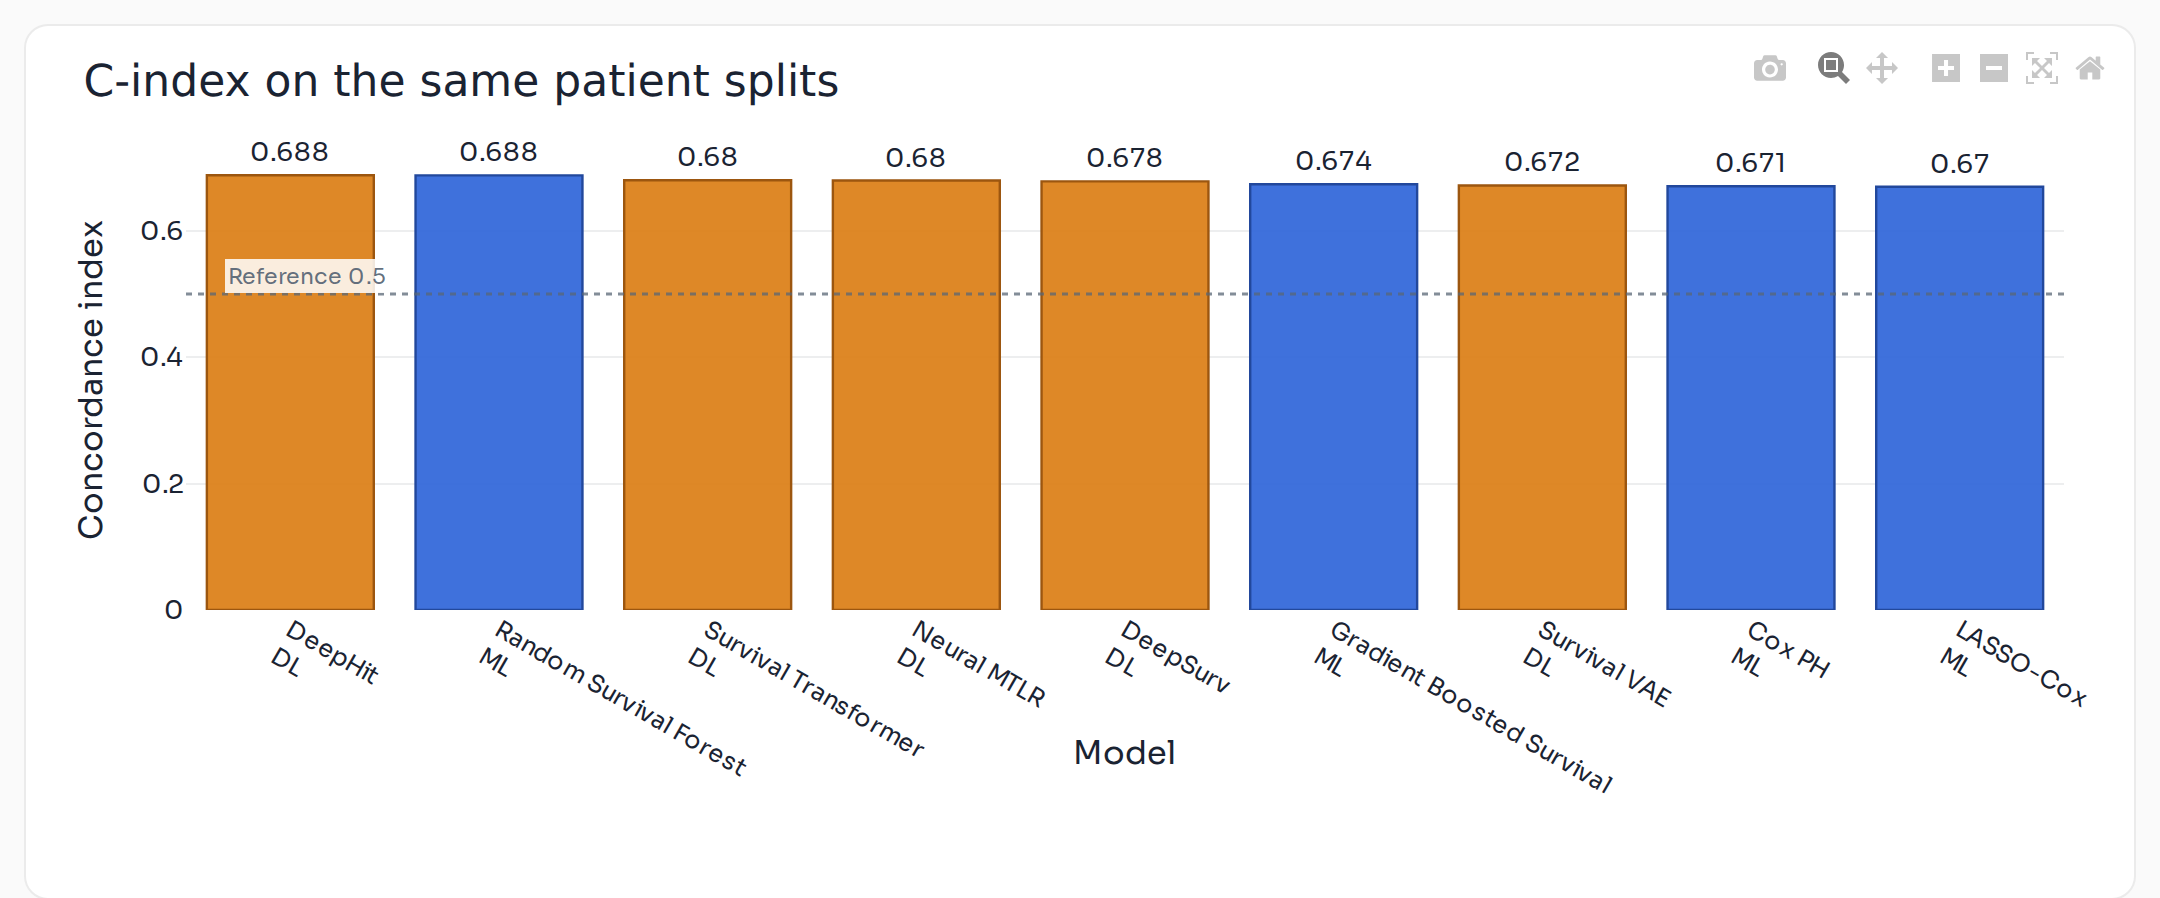
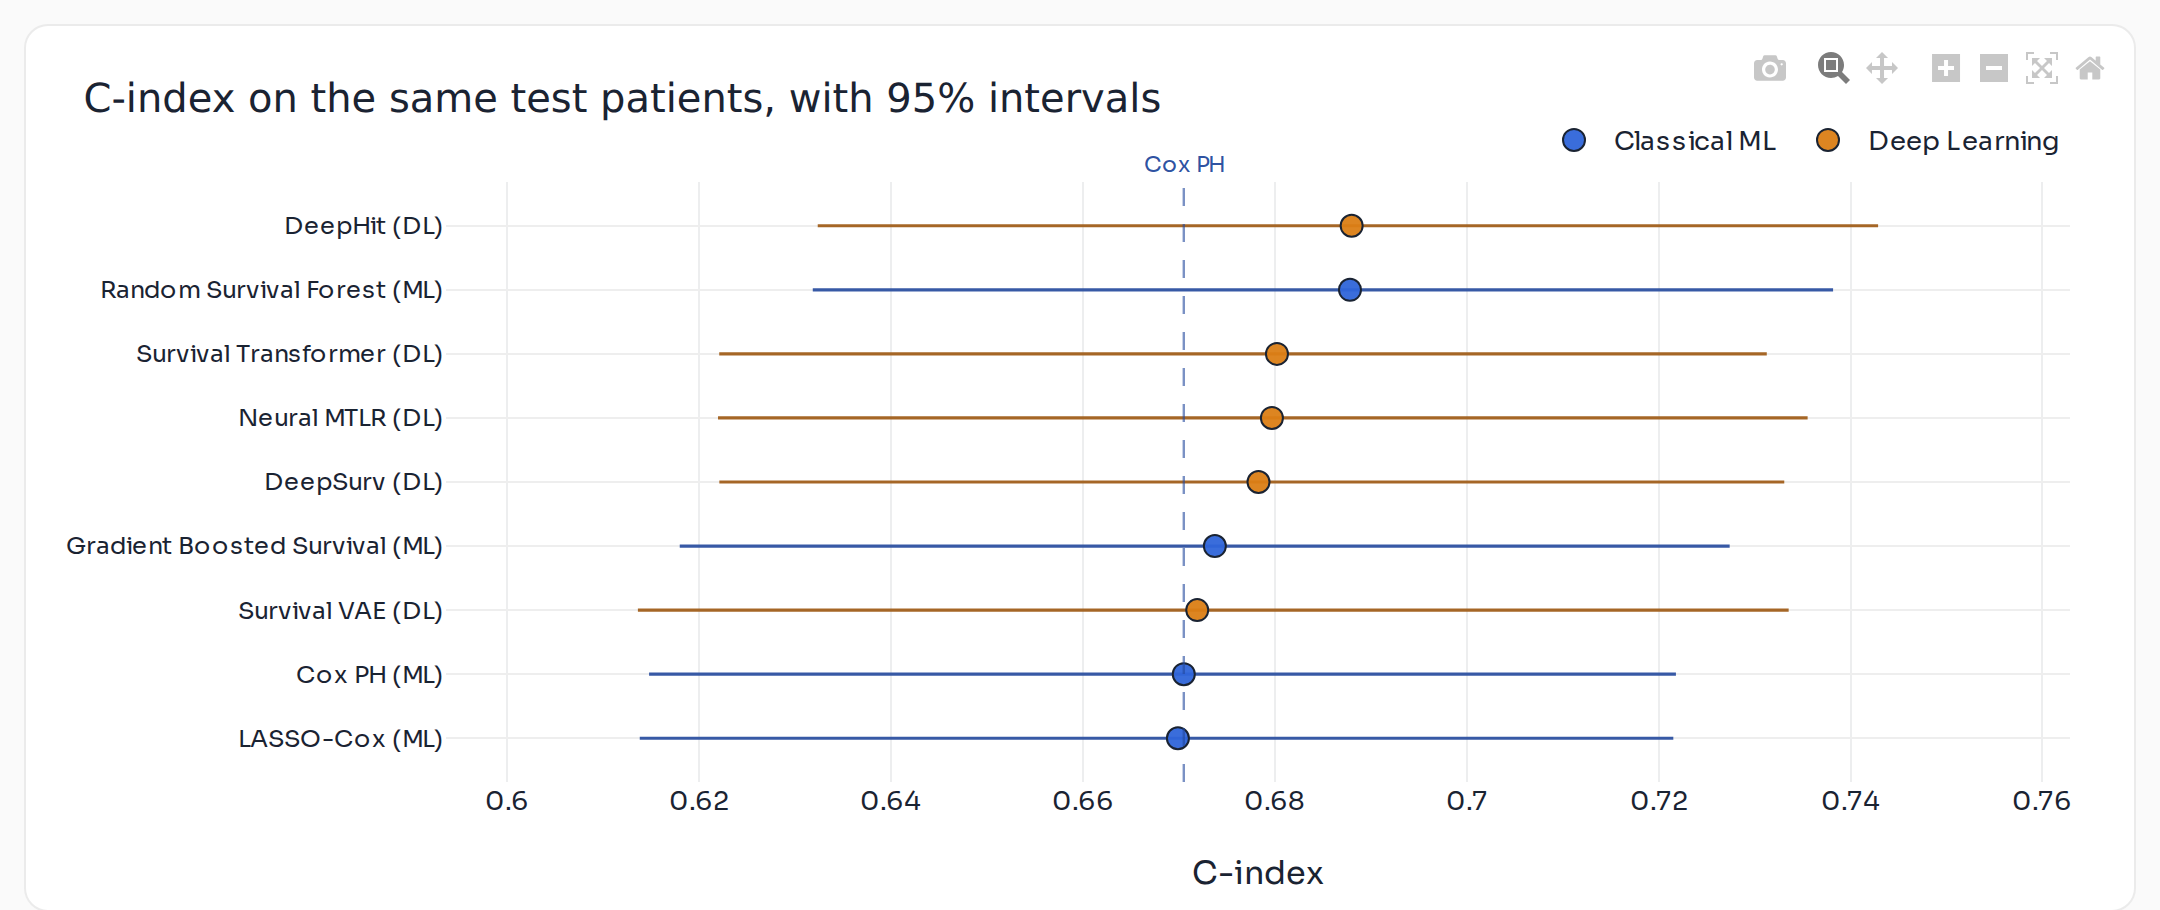
Show the chance line only near the intervals and refresh the comparison screenshot

diff --git a/src/survival_toolkit/static/app_benchmark.js b/src/survival_toolkit/static/app_benchmark.js
@@ -566,15 +566,17 @@
       }).filter((trace) => trace.x.length);
       const lows = ordered.map((row) => intervalByModel.get(String(row.model))?.c_index_ci?.[0] ?? valueOf(row));
       const highs = ordered.map((row) => intervalByModel.get(String(row.model))?.c_index_ci?.[1] ?? valueOf(row));
-      const low = Math.min(...lows, 0.5);
+      // The chance line (0.5) joins the axis only when an interval comes near it.
+      const showChance = Math.min(...lows) < 0.58;
+      const low = showChance ? Math.min(...lows, 0.5) : Math.min(...lows);
       const high = Math.max(...highs);
       const reference = intervalByModel.get("Cox PH");
-      const shapes = [
-        { type: "line", yref: "paper", y0: 0, y1: 1, xref: "x", x0: 0.5, x1: 0.5, line: { color: "rgba(90, 103, 118, 0.7)", width: 1.2, dash: "dot" } },
-      ];
-      const annotations = [
-        { xref: "x", x: 0.5, yref: "paper", y: 1, yanchor: "bottom", text: "0.5", showarrow: false, font: { size: 11, color: "rgba(90, 103, 118, 0.95)" } },
-      ];
+      const shapes = showChance
+        ? [{ type: "line", yref: "paper", y0: 0, y1: 1, xref: "x", x0: 0.5, x1: 0.5, line: { color: "rgba(90, 103, 118, 0.7)", width: 1.2, dash: "dot" } }]
+        : [];
+      const annotations = showChance
+        ? [{ xref: "x", x: 0.5, yref: "paper", y: 1, yanchor: "bottom", text: "0.5", showarrow: false, font: { size: 11, color: "rgba(90, 103, 118, 0.95)" } }]
+        : [];
       if (reference?.c_index != null) {
         shapes.push({ type: "line", yref: "paper", y0: 0, y1: 1, xref: "x", x0: reference.c_index, x1: reference.c_index, line: { color: "rgba(34, 72, 156, 0.6)", width: 1.2, dash: "dash" } });
         annotations.push({ xref: "x", x: reference.c_index, yref: "paper", y: 1, yanchor: "bottom", text: "Cox PH", showarrow: false, font: { size: 11, color: "rgba(34, 72, 156, 0.95)" } });
